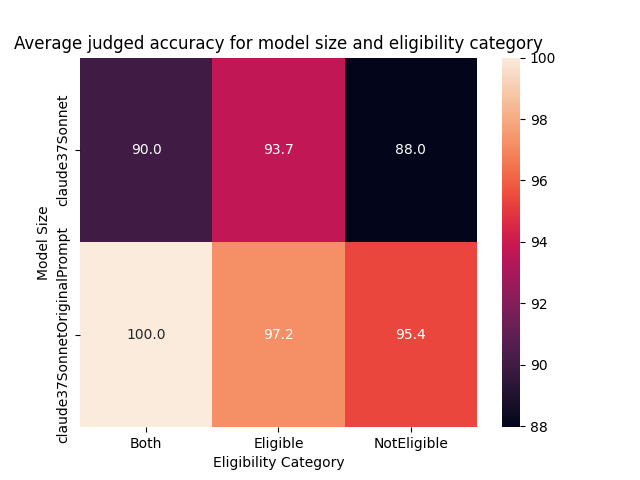
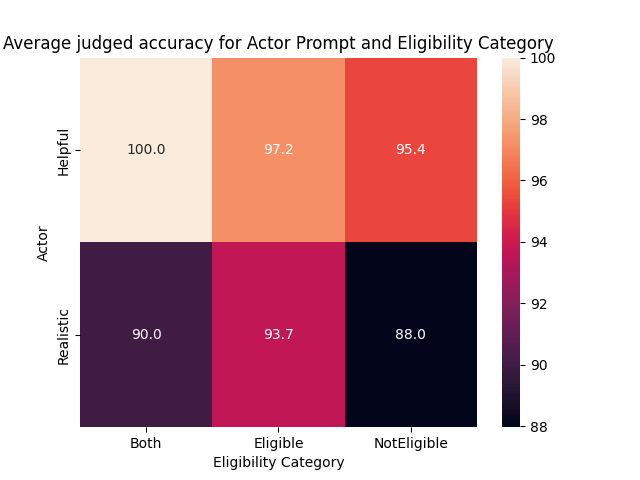
Update figures for latest analysis

diff --git a/src/adk/test_analysis.py b/src/adk/test_analysis.py
@@ -77,18 +77,18 @@ figure_annotations = {
             "xlabel": "Percentage correctness over all executions"
         },
         "success_rates_by_permutation_model_size.improvement.hist": {
-            "title": "Difference in judged accuracy with varying model size for child benefit",
+            "title": "Difference in judged accuracy with varying actor prompt for child benefit",
             "ylabel": "Count of permutations",
-            "xlabel": "Large model accuracy % minus small model accuracy % for a given permutation",
+            "xlabel": "Helpful Actor accuracy % minus Realistic Actor accuracy % for a given permutation",
         },
         "success_rates_by_eligibility.hist": {
             "ylabel": "Count of permutations",
-            "xlabel": "Model Accuracy %"
+            "xlabel": "Accuracy %"
         },
         "success_rates_by_eligibility.modelSize": {
-            "ylabel": "Model Size",
+            "ylabel": "Actor",
             "xlabel": "Eligibility Category",
-            "title": "Average judged accuracy for model size and eligibility category",
+            "title": "Average judged accuracy for Actor Prompt and Eligibility Category",
         },
     },
 }
@@ -97,7 +97,7 @@ model_sizes_hypothesis_mapping = {
     "child_benefit": {"baseline": "gemma4B", "improved": "gemma27B"},
     "skilled_worker_visa": {"baseline": "gemma4B", "improved": "gemma27B"},
     #"child_benefit__stressTestAgent": {"baseline": "gemma27B", "improved": "claude37Sonnet"},
-    "child_benefit__stressTestAgent": {"baseline": "claude37Sonnet", "improved": "claude37SonnetOriginalPrompt"},
+    "child_benefit__stressTestAgent": {"baseline": "Realistic", "improved": "Helpful"},
 }
 
 model_size_commit_mapping = {
@@ -111,8 +111,10 @@ model_size_commit_mapping = {
     }),
     "child_benefit__stressTestAgent": invert_mapping({
         "gemma27B": ["1012a61", "976499a", "74e8834"], 
-        "claude37Sonnet": ["e680f99"],
-        "claude37SonnetOriginalPrompt": ["21506e4"]
+        #"claude37Sonnet": ["e680f99"],
+        #"claude37SonnetOriginalPrompt": ["21506e4"]
+        "Realistic": ["e680f99"],
+        "Helpful": ["21506e4"]
     }),
     #defaultdict(lambda: "large"),
 }
